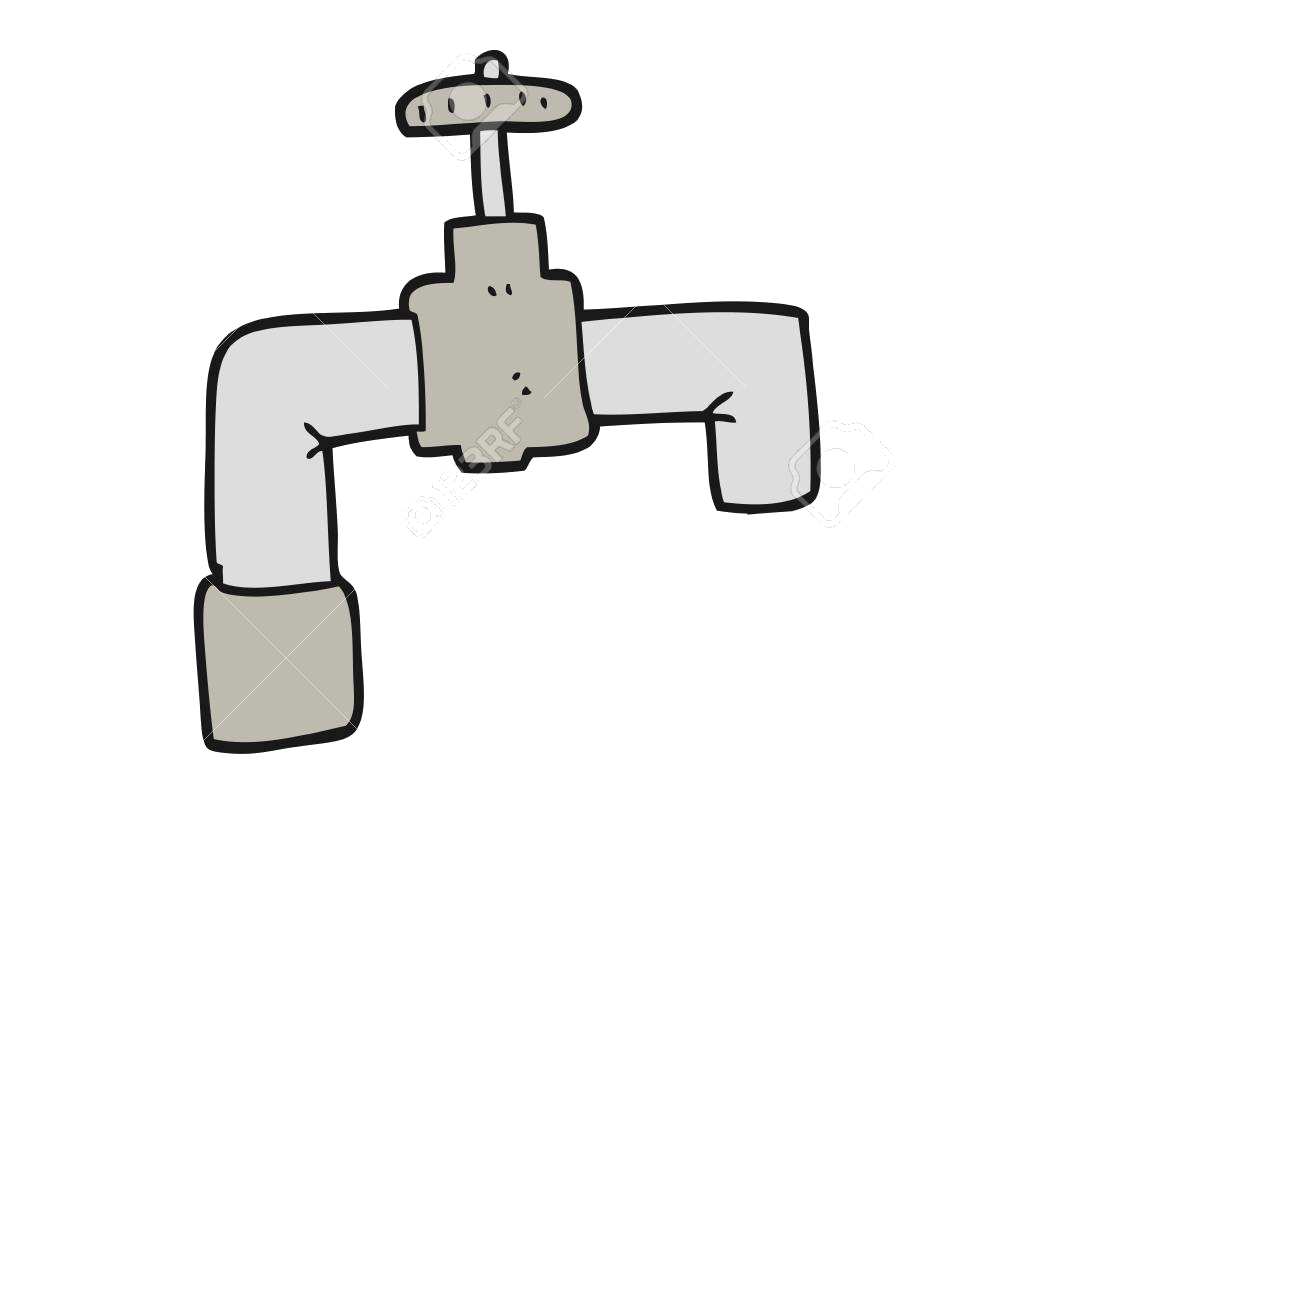
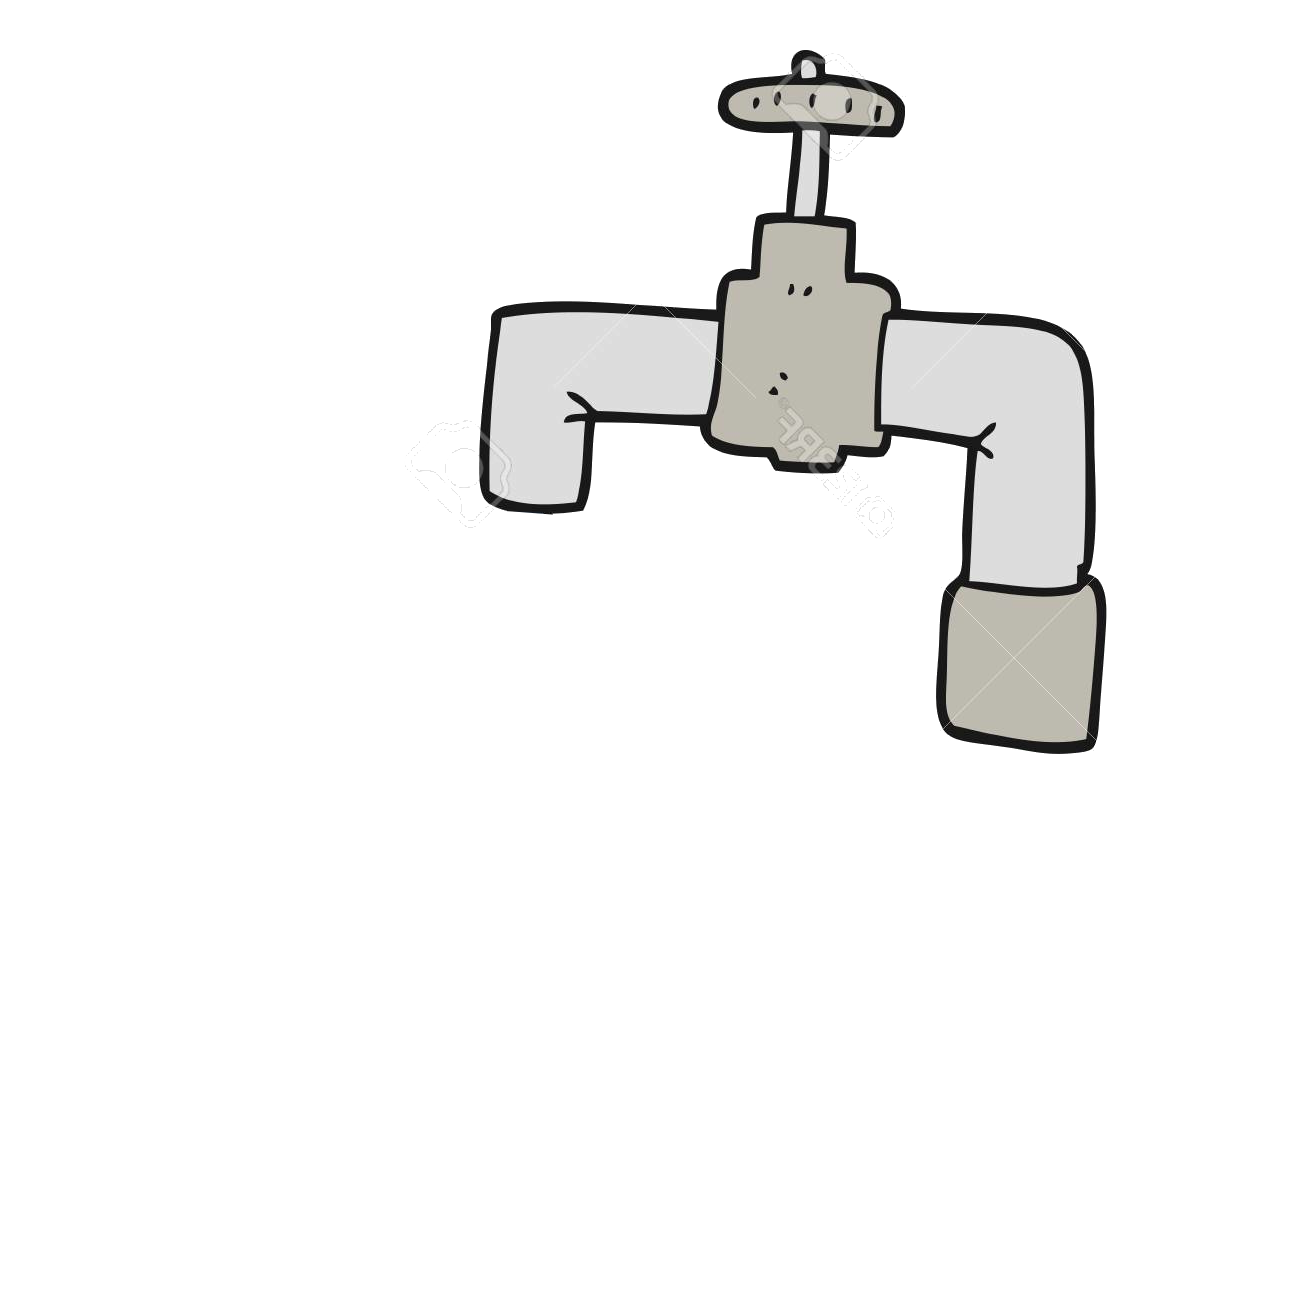
added watering system with debug
added some plants
added the capability to water those plants to the watering can
added debug visualizer of the watering process

Changed region(s): [[0.1231, 0.0308, 0.8615, 0.5846]]

diff --git a/core/src/com/thetriumvirate/game/WateringCan.java b/core/src/com/thetriumvirate/game/WateringCan.java
@@ -2,20 +2,23 @@ package com.thetriumvirate.game;
 
 import com.badlogic.gdx.Input;
 import com.badlogic.gdx.InputAdapter;
+import com.badlogic.gdx.graphics.Color;
 import com.badlogic.gdx.graphics.Texture;
 import com.badlogic.gdx.graphics.g2d.SpriteBatch;
+import com.badlogic.gdx.math.Rectangle;
 
 public class WateringCan extends InputAdapter{
 	// Resource paths
 	private static final String RES_CAN = "graphics/wateringcan.png";
 	private static final String RES_CAN_STANDING = "graphics/wateringcanstanding.png";
+	
 
 	private static final int DRAW_WIDTH = 120;
 	private static final int DRAW_HEIGHT = 120;
 	
 	private boolean selected, wateringPlants;
 	
-	private final Main game;
+	private final GameScreen game;
 	private final Texture tex_can, tex_can_standing;
 	private final Tap tap;
 	
@@ -30,36 +33,59 @@ public class WateringCan extends InputAdapter{
 	private static final float REFILL_SPEED = 100.0f;
 	
 	private static final float WATERING_SPEED = 60.0f;
+
+	private static final int HEAD_SIZE = 45;
+	private static final int HEAD_OFFSET_Y = 10;
+	private Rectangle canHead;
+	private boolean hasWateredThisTick = false;
 	
-	public WateringCan(final Main instance, final Tap myTap) {
-		this.game = instance;
+	public WateringCan(final GameScreen gameScreen, final Tap myTap) {
+		this.game = gameScreen;
 		this.tap = myTap;
 		
 		this.selected = false;
 		this.wateringPlants = false;
 		
-		// start with empty can
-		this.fillState = 0.0f;
+		// start with full can
+		this.fillState = MAX_FILL;
 		
 		this.pos_x = this.tap.getDockX(DRAW_WIDTH);
 		this.pos_y = this.tap.getDockY();
 		
-		this.tex_can = this.game.assetmanager.syncGet(RES_CAN, Texture.class);
-		this.tex_can_standing = this.game.assetmanager.syncGet(RES_CAN_STANDING, Texture.class);
+		this.canHead = new Rectangle(this.pos_x, this.pos_y + HEAD_OFFSET_Y, HEAD_SIZE, HEAD_SIZE);
+		
+		this.tex_can = this.game.getGame().assetmanager.syncGet(RES_CAN, Texture.class);
+		this.tex_can_standing = this.game.getGame().assetmanager.syncGet(RES_CAN_STANDING, Texture.class);
+		
 	}
 	
 	public void update(float delta) {
+		this.canHead.setPosition(this.pos_x, this.pos_y + HEAD_OFFSET_Y);
+		
 		if(this.tap.isWaterRunning() && !this.isSelected()) {
 			this.fillState += REFILL_SPEED * delta;
 			
-			if(this.fillState > MAX_FILL)
+			if(this.fillState > MAX_FILL) {
 				this.fillState = MAX_FILL;
+				this.tap.setWaterRunning(false);
+			}
 		} else if(this.isSelected() && this.wateringPlants) {
-			this.fillState -= WATERING_SPEED * delta;
+			// TODO DEBUGGING --> uncomment
+			
+			//this.fillState -= WATERING_SPEED * delta;
 			
 			if(this.fillState < 0.0f) {
 				this.fillState = 0.0f;
 				this.wateringPlants = false;
+			} else {
+				// Check which plants are currently being watered(?)
+				
+				for(Plant p : this.game.getPlants()) {
+					if(p.getBoundingBox().overlaps(this.canHead)) {
+						p.addWater(WATERING_SPEED);
+						this.hasWateredThisTick = true;
+					}
+				}
 			}
 		}
 	}
@@ -107,7 +133,8 @@ public class WateringCan extends InputAdapter{
 				
 					return true;
 				} else {
-					this.wateringPlants = true;
+					if(this.fillState > 0.0f)
+						this.wateringPlants = true;
 				}
 			}
 		}
@@ -122,15 +149,39 @@ public class WateringCan extends InputAdapter{
 		else
 			sb.draw(tex_can_standing, this.pos_x, this.pos_y, DRAW_WIDTH, DRAW_HEIGHT);
 //		sb.end();
+		
+		Color c = new Color(sb.getColor());
+		
+		if(this.hasWateredThisTick)	
+			sb.setColor(0.0f, 0.0f, 0.0f, 1.0f);
+		
+		sb.draw(this.game.tex_debugrect, this.canHead.x, this.canHead.y, this.canHead.width, this.canHead.height);
+		
+		sb.setColor(c);
+		this.hasWateredThisTick = false;
 	}
 
+	@Override
+	public boolean touchDragged(int screenX, int screenY, int pointer) {
+		screenY = Main.WINDOW_HEIGHT - screenY;
+		
+		if(this.selected) {
+			this.pos_x = screenX - DRAW_WIDTH / 2;
+			this.pos_y = screenY - DRAW_HEIGHT / 2;
+			
+			return true;
+		}
+		
+		return false;
+	}
+	
 	@Override
 	public boolean mouseMoved(int screenX, int screenY) {
 		screenY = Main.WINDOW_HEIGHT - screenY;
 		
 		if(this.selected) {
-			this.pos_x = screenX;
-			this.pos_y = screenY;
+			this.pos_x = screenX - DRAW_WIDTH / 2;
+			this.pos_y = screenY - DRAW_HEIGHT / 2;
 			
 			return true;
 		}
@@ -161,8 +212,8 @@ public class WateringCan extends InputAdapter{
 		game.assetmanager.load(RES_CAN_STANDING, Texture.class);
 	}
 	
-	public void unload() {
-		this.game.assetmanager.unload(RES_CAN);
-		this.game.assetmanager.unload(RES_CAN_STANDING);
+	public void dispose() {
+		this.game.getGame().assetmanager.unload(RES_CAN);
+		this.game.getGame().assetmanager.unload(RES_CAN_STANDING);
 	}
 }

diff --git a/core/src/com/thetriumvirate/game/Plant.java b/core/src/com/thetriumvirate/game/Plant.java
@@ -3,6 +3,7 @@ package com.thetriumvirate.game;
 import com.badlogic.gdx.graphics.Texture;
 import com.badlogic.gdx.graphics.g2d.SpriteBatch;
 import com.badlogic.gdx.graphics.g2d.TextureRegion;
+import com.badlogic.gdx.math.Rectangle;
 import com.badlogic.gdx.math.Vector2;
 
 public class Plant {
@@ -58,6 +59,7 @@ public class Plant {
 	private Vector2 pot_pos;
 	private Vector2 plant_pos;
 	
+	private Rectangle boundingBox;
 	
 	//posSlot: int from 0-7, or whatever fits on the screen
 	public Plant(GameScreen gamescreen, int posSlot) {
@@ -66,6 +68,8 @@ public class Plant {
 		
 		pot_pos = new Vector2(POT_POS_X_OFFSET + posSlot * SLOT_WIDTH, POT_POS_Y);
 		plant_pos = pot_pos.add(0, POT_HEIGHT - 2); // -2 offset so the plant is "inside the pot" bcs the pot overlaps over the plant; 
+		
+		this.boundingBox = new Rectangle(pot_pos.x, pot_pos.y, POT_WIDTH, POT_HEIGHT + SPRITEHEIGHT);
 		
 		//init resources
 		plantpot_texture = game.assetmanager.syncGet(RES_PLANTPOT, Texture.class);
@@ -104,6 +108,8 @@ public class Plant {
 		
 		//secondly, render the pot
 		spritebatch.draw(plantpot_texture, pot_pos.x, pot_pos.y, POT_WIDTH, POT_HEIGHT);
+		
+		spritebatch.draw(this.gamescreen.tex_debugrect, this.boundingBox.x, this.boundingBox.y, this.boundingBox.width, this.boundingBox.height);
 	}
 	
 	
@@ -171,5 +177,10 @@ public class Plant {
 	//Add an absolute amount of water
 	public void addWater(float waterAmount) {
 		this.waterlevel += waterAmount;
+	}
+
+
+	public Rectangle getBoundingBox() {
+		return this.boundingBox;
 	}
 }

diff --git a/core/src/com/thetriumvirate/game/Tap.java b/core/src/com/thetriumvirate/game/Tap.java
@@ -14,8 +14,8 @@ public class Tap extends InputAdapter {
 	private static final int PLANK_HEIGHT = 60;
 	private static final int TAP_WIDTH = 120;
 	private static final int TAP_HEIGHT = 120;
-	private static final int TAP_OFFSET_X = 0;
-	private static final int TAP_OFFSET_Y = 150;
+	private static final int TAP_OFFSET_X = PLANK_WIDTH / 2 - TAP_WIDTH / 4;
+	private static final int TAP_OFFSET_Y = 70;
 
 	private final Main game;
 	private final Texture tex_tap;
@@ -69,7 +69,7 @@ public class Tap extends InputAdapter {
 	}
 
 	public int getDockY() {
-		return this.pos_y + PLANK_HEIGHT;
+		return this.pos_y + PLANK_HEIGHT / 2;
 	}
 
 	public static void prefetch(Main game) {
@@ -78,7 +78,7 @@ public class Tap extends InputAdapter {
 		game.assetmanager.load(RES_PLANK, Texture.class);
 	}
 
-	public void unload() {
+	public void dispose() {
 		this.game.assetmanager.unload(RES_TAP);
 		this.game.assetmanager.unload(RES_PLANK);
 		this.game.assetmanager.unload(RES_TAPRUNNING);

diff --git a/core/src/com/thetriumvirate/game/SplashScreen.java b/core/src/com/thetriumvirate/game/SplashScreen.java
@@ -59,7 +59,7 @@ public final class SplashScreen implements Screen {
 	@Override
 	public void render(float delta) {
 		checkprogress();
-		String text = "Progress: " + game.assetmanager.getProgress() * 100 + '%';
+		String text = "Progress: " + (int) (game.assetmanager.getProgress() * 100) + '%';
 		layout.setText(font, text);
 		// Position for text
 		final Vector2 pos = new Vector2((CAM_WIDTH / 2) - (layout.width / 2), (CAM_HEIGHT / 4) - (layout.height / 2));
